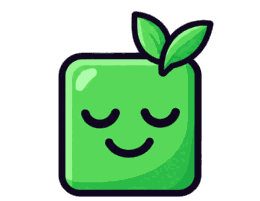
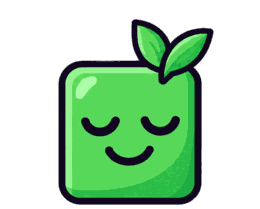
fix: give the decorations room to exist
The scribble over frazzled ran off the top of its own canvas, because the
margin was a number I chose rather than one I measured.

Measured now, per drawing, against a hard alpha threshold — and the first
two attempts at measuring were wrong in ways worth recording: trimming on
raw alpha caught near-transparent noise and reported overhangs of 350px,
and windowing each drawing to its own region caught the outline of the
tile in the row above, which reaches about ten pixels further down than
the fill does.

The honest numbers are 126px above at the most and 113px to one side, so
every canvas now carries 134 above and 120 either side. Nothing touches
an edge in any of the five, and the tiles still land at the same size, at
the same height, centred.

diff --git a/internal/web/templates/home.html b/internal/web/templates/home.html
@@ -43,7 +43,7 @@
   <div class="checkin">
     {{if .Mood}}
     <p class="noted" role="status">
-      <img alt="" src="/static/mood-{{.Mood}}.png?v={{.V}}" width="260" height="201">
+      <img alt="" src="/static/mood-{{.Mood}}.png?v={{.V}}" width="260" height="209">
       <span>noted &mdash; {{.MoodWord}}</span>
       <a class="again" href="/?ask=1">say something else</a>
     </p>
@@ -52,7 +52,7 @@
     <form class="faces" method="post" action="/mood">
       {{range .Faces}}
       <button class="face" name="mood" value="{{.Mood}}">
-        <img alt="" src="/static/mood-{{.Mood}}.png?v={{$.V}}" width="260" height="201">
+        <img alt="" src="/static/mood-{{.Mood}}.png?v={{$.V}}" width="260" height="209">
         <span>{{.Word}}</span>
       </button>
       {{end}}
